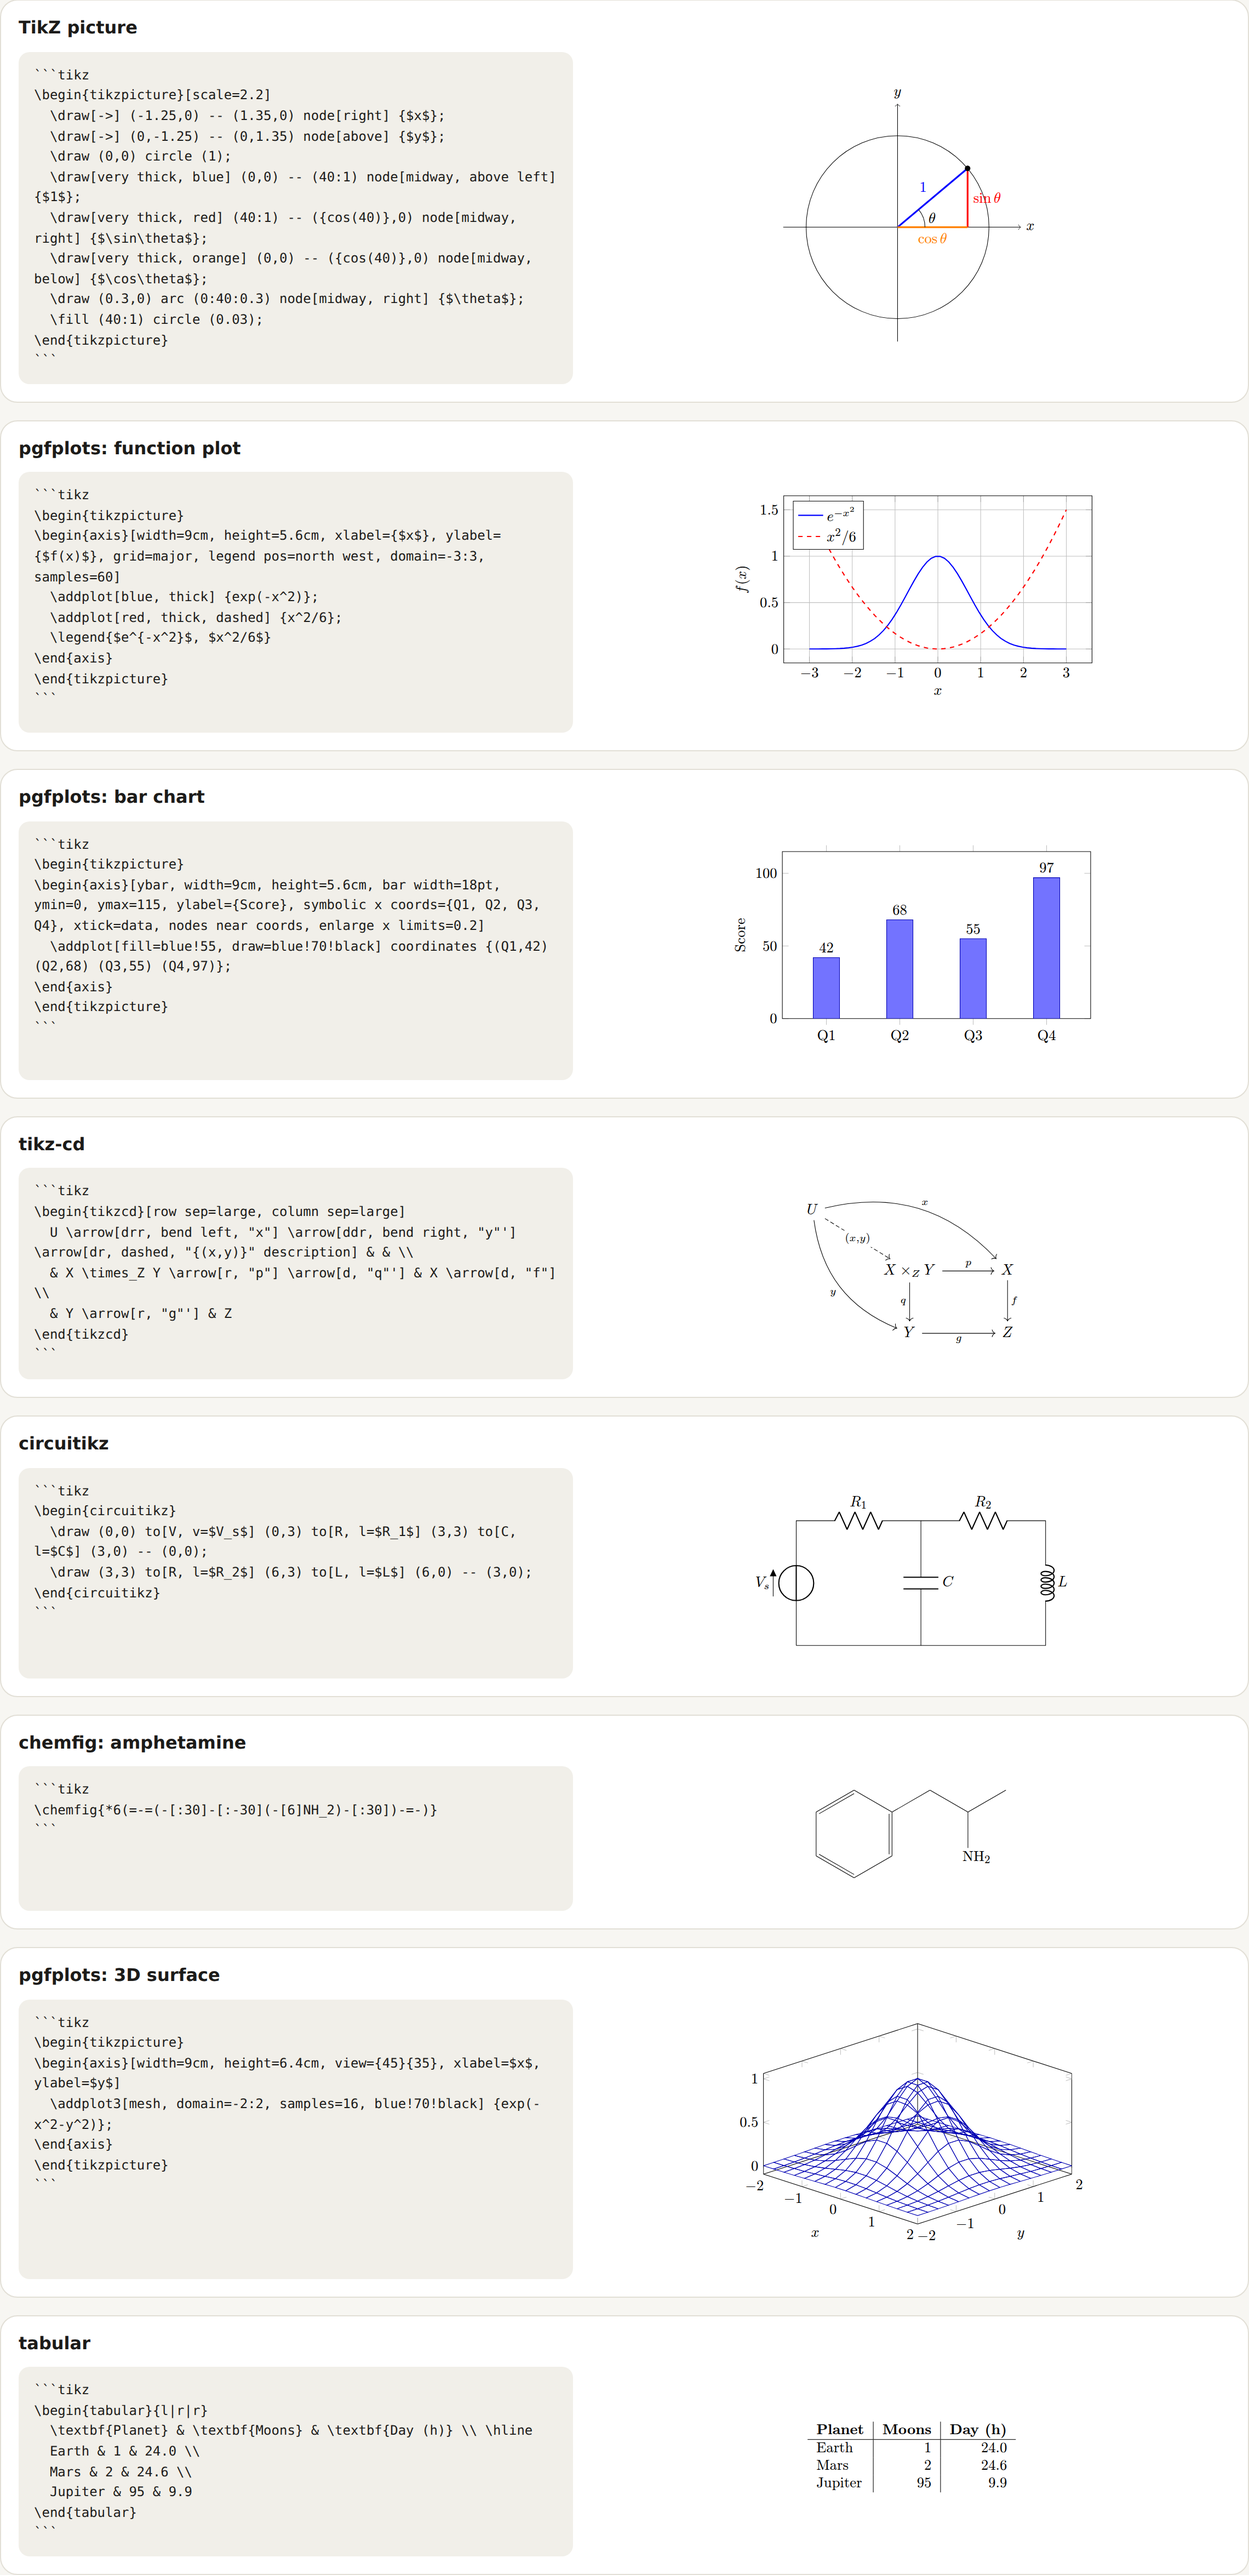
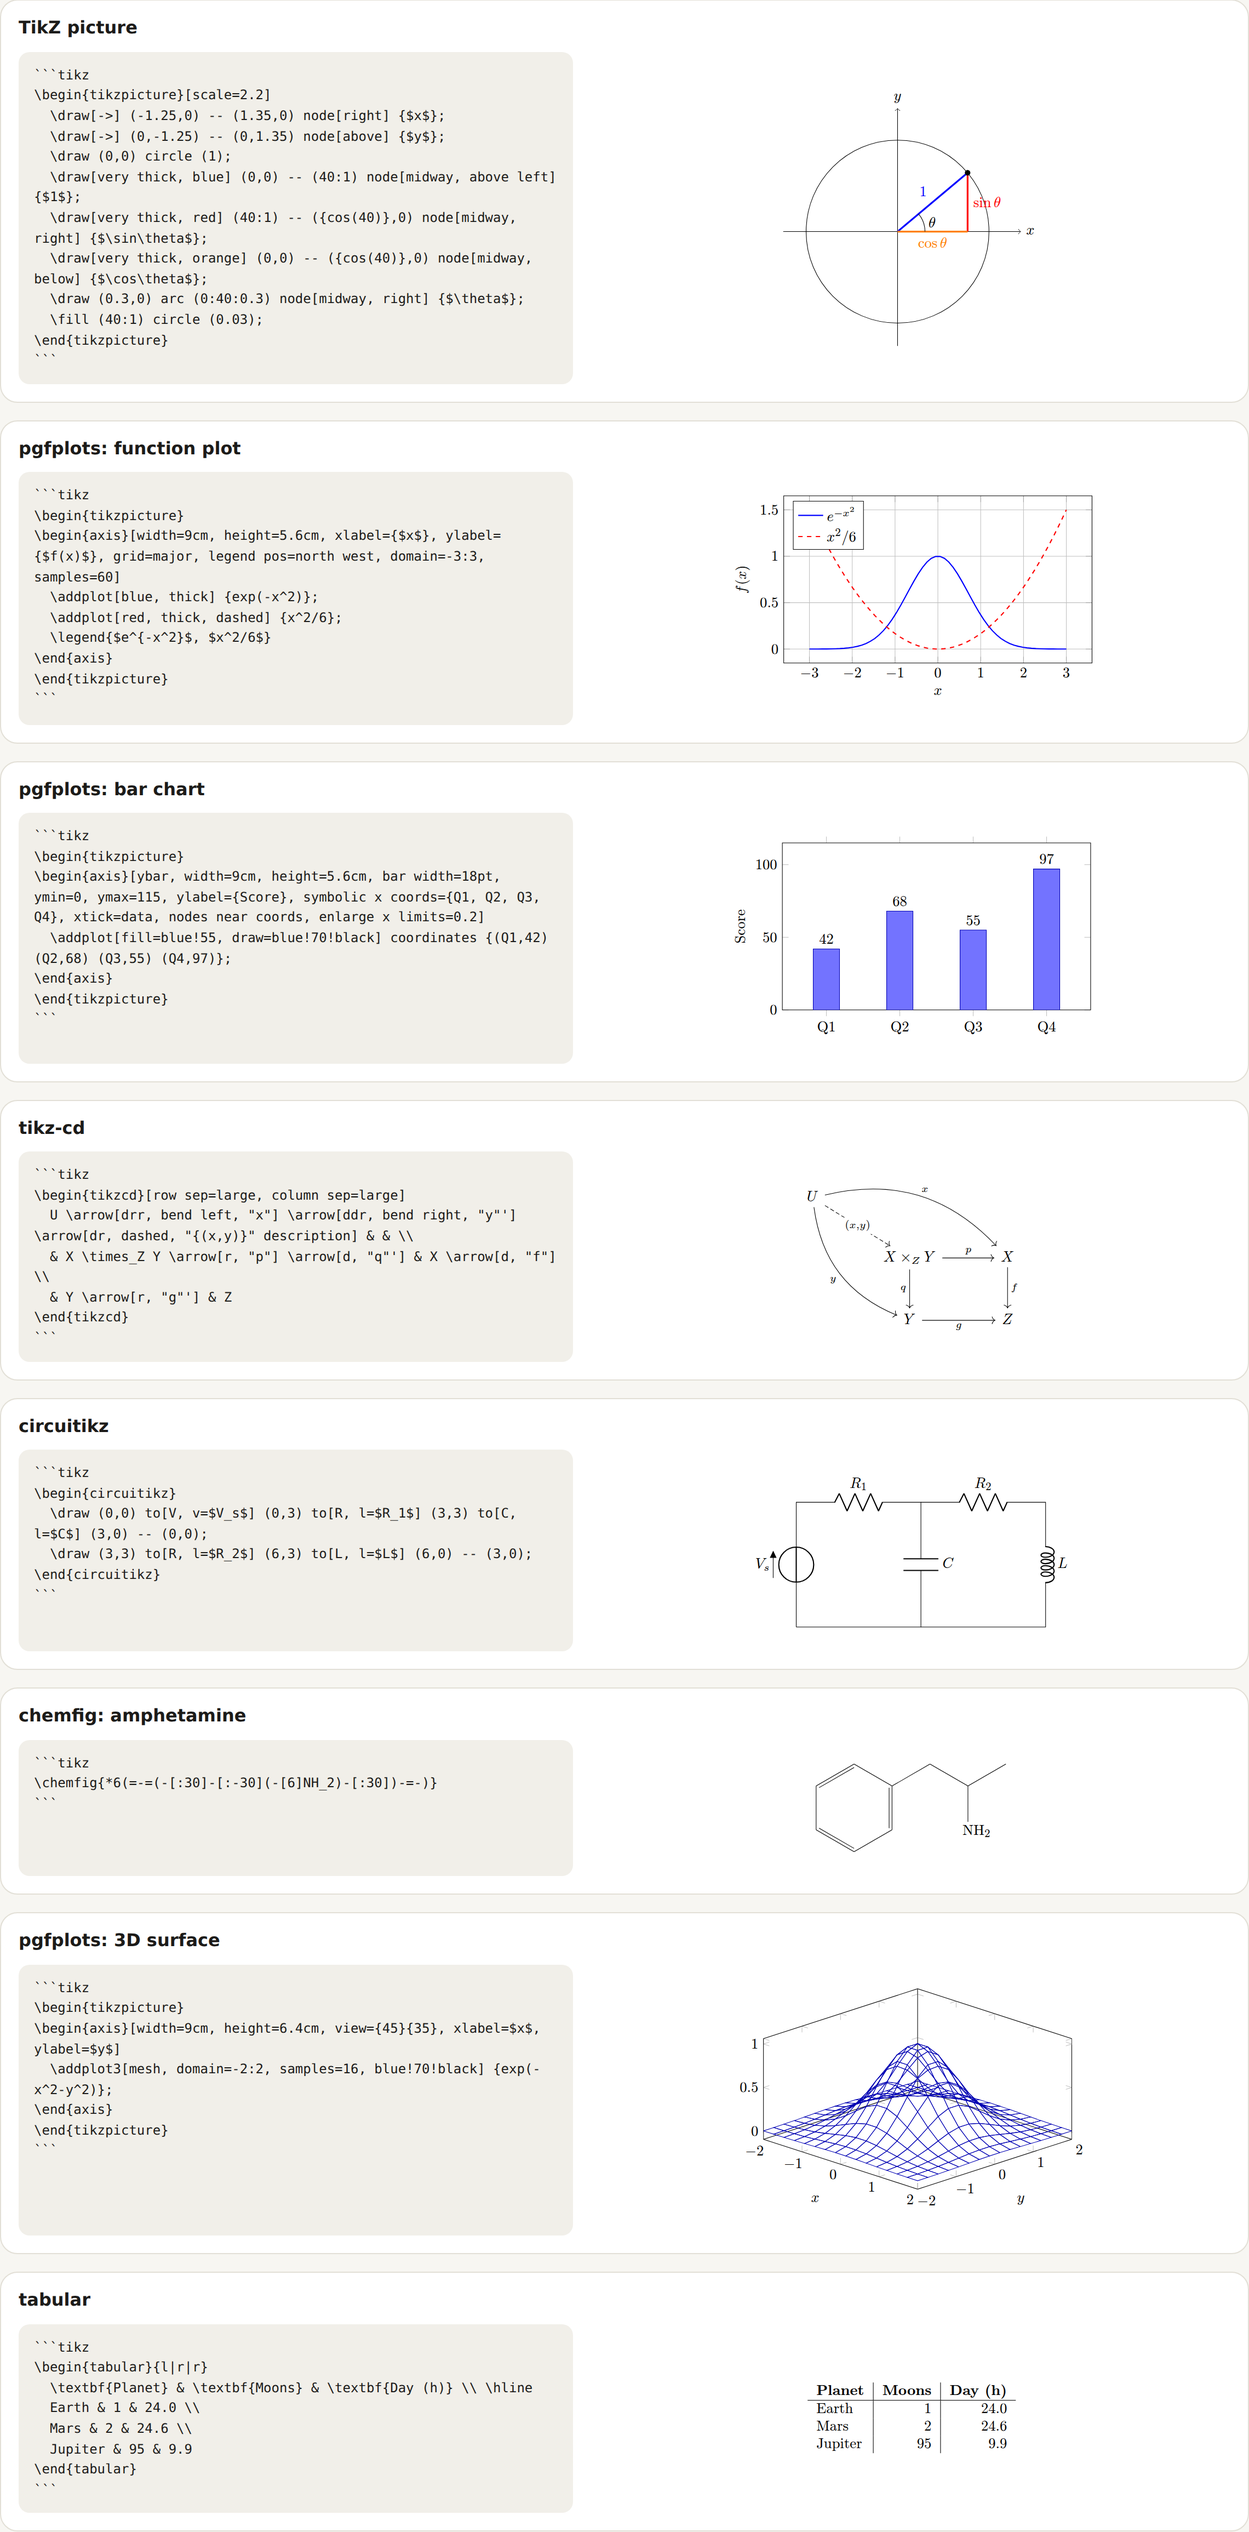
Release 0.8.0
- Copyright holder is PlanetRenox
- README and site link to the npm package
- A figure placeholder carries its source in data-src, so a page that decorates
  <pre> blocks (copy buttons, highlighters) cannot corrupt it before hydrate()
- Figures are centred with margins, which survives CSS resets that make svg a block
- Smaller default molecule size

Model: Anthropic claude-fable-5-2
Prompt: for copyright put PlanetRenox.
include the website in the package homepage, also link the npm package in the readme. publish it as v 0.8.0
then switch sune to use it, and make sure the formatting and it looks good and everything.

diff --git a/src/index.js b/src/index.js
@@ -42,7 +42,7 @@ export const runtime = (opt = {}) => {
     },
     block(k, src) {
       const v = cache.get(key(k, src))
-      if (!v) return rt.collect && E[k] && misses.push([k, src]), wrap('div', 'mlp-block mlp-pending', k, code(src))
+      if (!v) return rt.collect && E[k] && misses.push([k, src]), wrap('div', 'mlp-block mlp-pending', k, code(src), ` data-src="${esc(src)}"`)
       return v.e ? wrap('div', 'mlp-block mlp-error', k, `${code(src)}<p class="mlp-msg">${esc(v.e)}</p>`) : wrap('div', `mlp-block mlp-${k}`, k, v.h)
     },
   }
@@ -58,7 +58,8 @@ export const runtime = (opt = {}) => {
       DOM && o.css !== false && !document.getElementById('mlp-css') && style('mlp-css', rt.css())
       const els = [...root.querySelectorAll('.mlp-pending')]
       await Promise.all(els.map(async el => {
-        const k = el.dataset.mlp, src = el.textContent, d = !!el.dataset.d
+        // A figure's source travels in data-src: copy buttons and highlighters may have changed the visible <pre>.
+        const k = el.dataset.mlp, src = el.dataset.src ?? el.textContent, d = !!el.dataset.d
         if (k !== 'math' && !E[k]) return
         k === 'math' && await rt.ready().catch(() => {})
         await get(k, src, d)

diff --git a/test/plugin.test.js b/test/plugin.test.js
@@ -91,6 +91,7 @@ test('fenced blocks', () => {
   const d = dom(md.render('```mermaid\nflowchart LR\n A-->B\n```\n\n```graphviz\ndigraph{a->b}\n```\n\n```js\nlet a = 1\n```\n\n```pgfplots\n\\begin{axis}\\end{axis}\n```'))
   assert.deepEqual([...d.querySelectorAll('.mlp-block')].map(e => e.dataset.mlp), ['mermaid', 'dot', 'tikz'])
   assert.equal(d.querySelector('.mlp-block').textContent, 'flowchart LR\n A-->B')
+  assert.equal(d.querySelector('.mlp-block').dataset.src, 'flowchart LR\n A-->B')
   assert.equal(d.querySelectorAll('pre > code.language-js').length, 1)
   // still being typed: plain code until the closing fence arrives
   assert.equal(dom(md.render('```tikz\n\\begin{tikzpicture}\n\\draw (0,0)')).querySelectorAll('.mlp').length, 0)

diff --git a/src/engines.js b/src/engines.js
@@ -107,7 +107,7 @@ export default o => {
 
     smiles: { async render(src) {
       const S = await lib('smiles'), at = mount(stage()), el = at.appendChild(document.createElementNS('http://www.w3.org/2000/svg', 'svg'))
-      const size = { width: 420, height: 300, ...o.smiles }
+      const size = { width: 340, height: 230, ...o.smiles }
       for (const k of ['width', 'height']) el.setAttribute(k, size[k])
       el.setAttribute('viewBox', `0 0 ${size.width} ${size.height}`)
       try {

diff --git a/src/css.js b/src/css.js
@@ -7,7 +7,7 @@ export const base = `
 .mlp-pending{opacity:.6}
 .mlp-math.mlp-error{text-decoration:underline wavy #c8372d;text-underline-offset:3px}
 .mlp-block{margin:1em 0;padding:14px;border-radius:10px;background:#fff;color:#111;text-align:center;overflow-x:auto}
-.mlp-block>svg{max-width:100%;height:auto}
+.mlp-block>svg{display:block;margin:0 auto;max-width:100%;height:auto}
 .mlp-tikz{padding:22px 14px}
 .mlp-tikz svg{overflow:visible}
 .mlp-svg>svg,.mlp-abc>svg{max-height:26em}

diff --git a/site/src/style.css b/site/src/style.css
@@ -77,7 +77,7 @@ footer { border-top: 1px solid var(--line); padding: 26px 20px 40px; text-align:
 @media (max-width: 860px) {
   .glance { grid-template-columns: repeat(2, 1fr) }
   .band, .card, .play, .use { grid-template-columns: minmax(0, 1fr) }
-  .top nav a:not(:last-child) { display: none }
+  .top nav a:not(:nth-last-child(-n+2)) { display: none }
   .src { max-height: 220px }
   #input { min-height: 260px }
 }

diff --git a/site/index.html b/site/index.html
@@ -17,6 +17,7 @@
       <a href="#gallery">Gallery</a>
       <a href="#playground">Playground</a>
       <a href="#use">Use it</a>
+      <a href="https://www.npmjs.com/package/markdown-it-latex-plus">npm</a>
       <a href="https://github.com/sune-org/markdown-it-latex-plus">GitHub</a>
     </nav>
   </header>

diff --git a/docs/README.md b/docs/README.md
@@ -4,7 +4,7 @@ Serious LaTeX for [markdown-it](https://github.com/markdown-it/markdown-it), plu
 
 <a href="https://markdown-it-latex-plus.pages.dev"><img src="img/glance.png" alt="Rendered examples: aligned equations, a pgfplots chart, a chemfig molecule, a Mermaid sequence diagram, a circuit, a Vega-Lite chart, an xy-pic diagram and a molecule drawn from SMILES"></a>
 
-**[Live gallery and playground →](https://markdown-it-latex-plus.pages.dev)**
+**[Live gallery and playground](https://markdown-it-latex-plus.pages.dev)** · **[npm](https://www.npmjs.com/package/markdown-it-latex-plus)**
 
 ## Prompt for your agent
 
@@ -29,7 +29,7 @@ Fenced code blocks that render as figures:
 npm i markdown-it-latex-plus
 ```
 
-Not on npm yet. Until it is, install from GitHub: `npm i github:sune-org/markdown-it-latex-plus`.
+[markdown-it-latex-plus on npm](https://www.npmjs.com/package/markdown-it-latex-plus)
 
 ## Use
 
